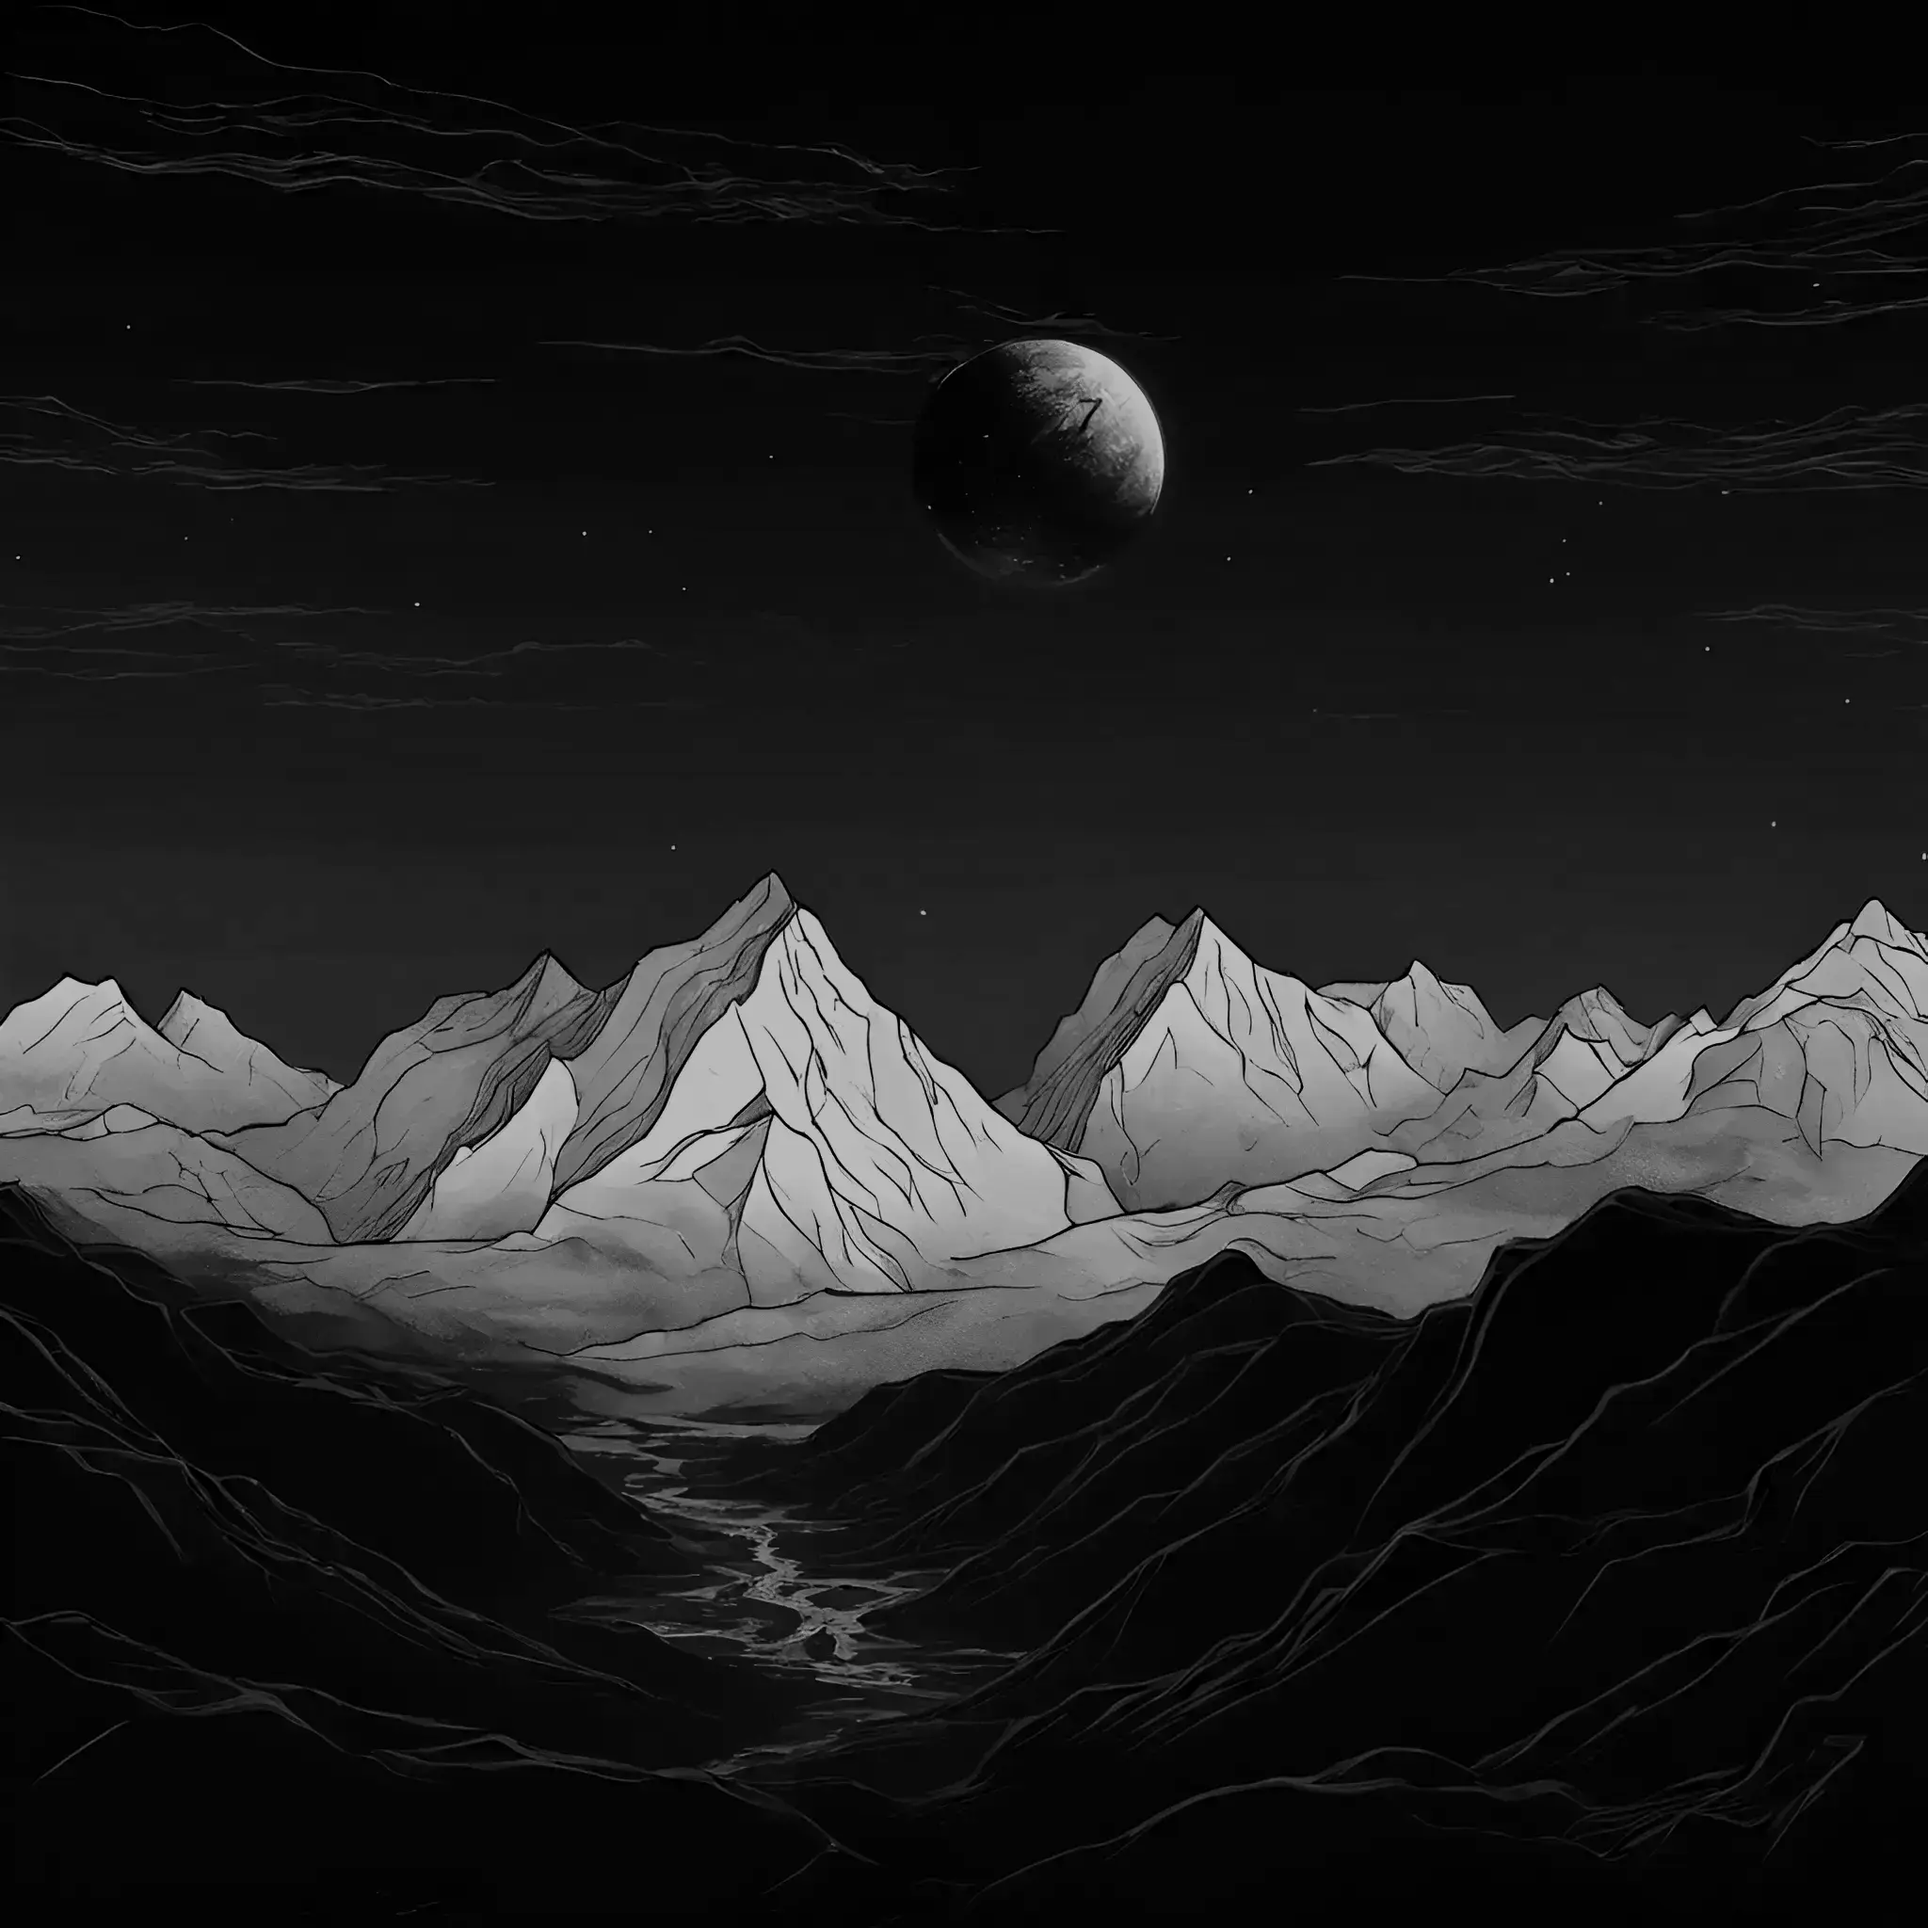
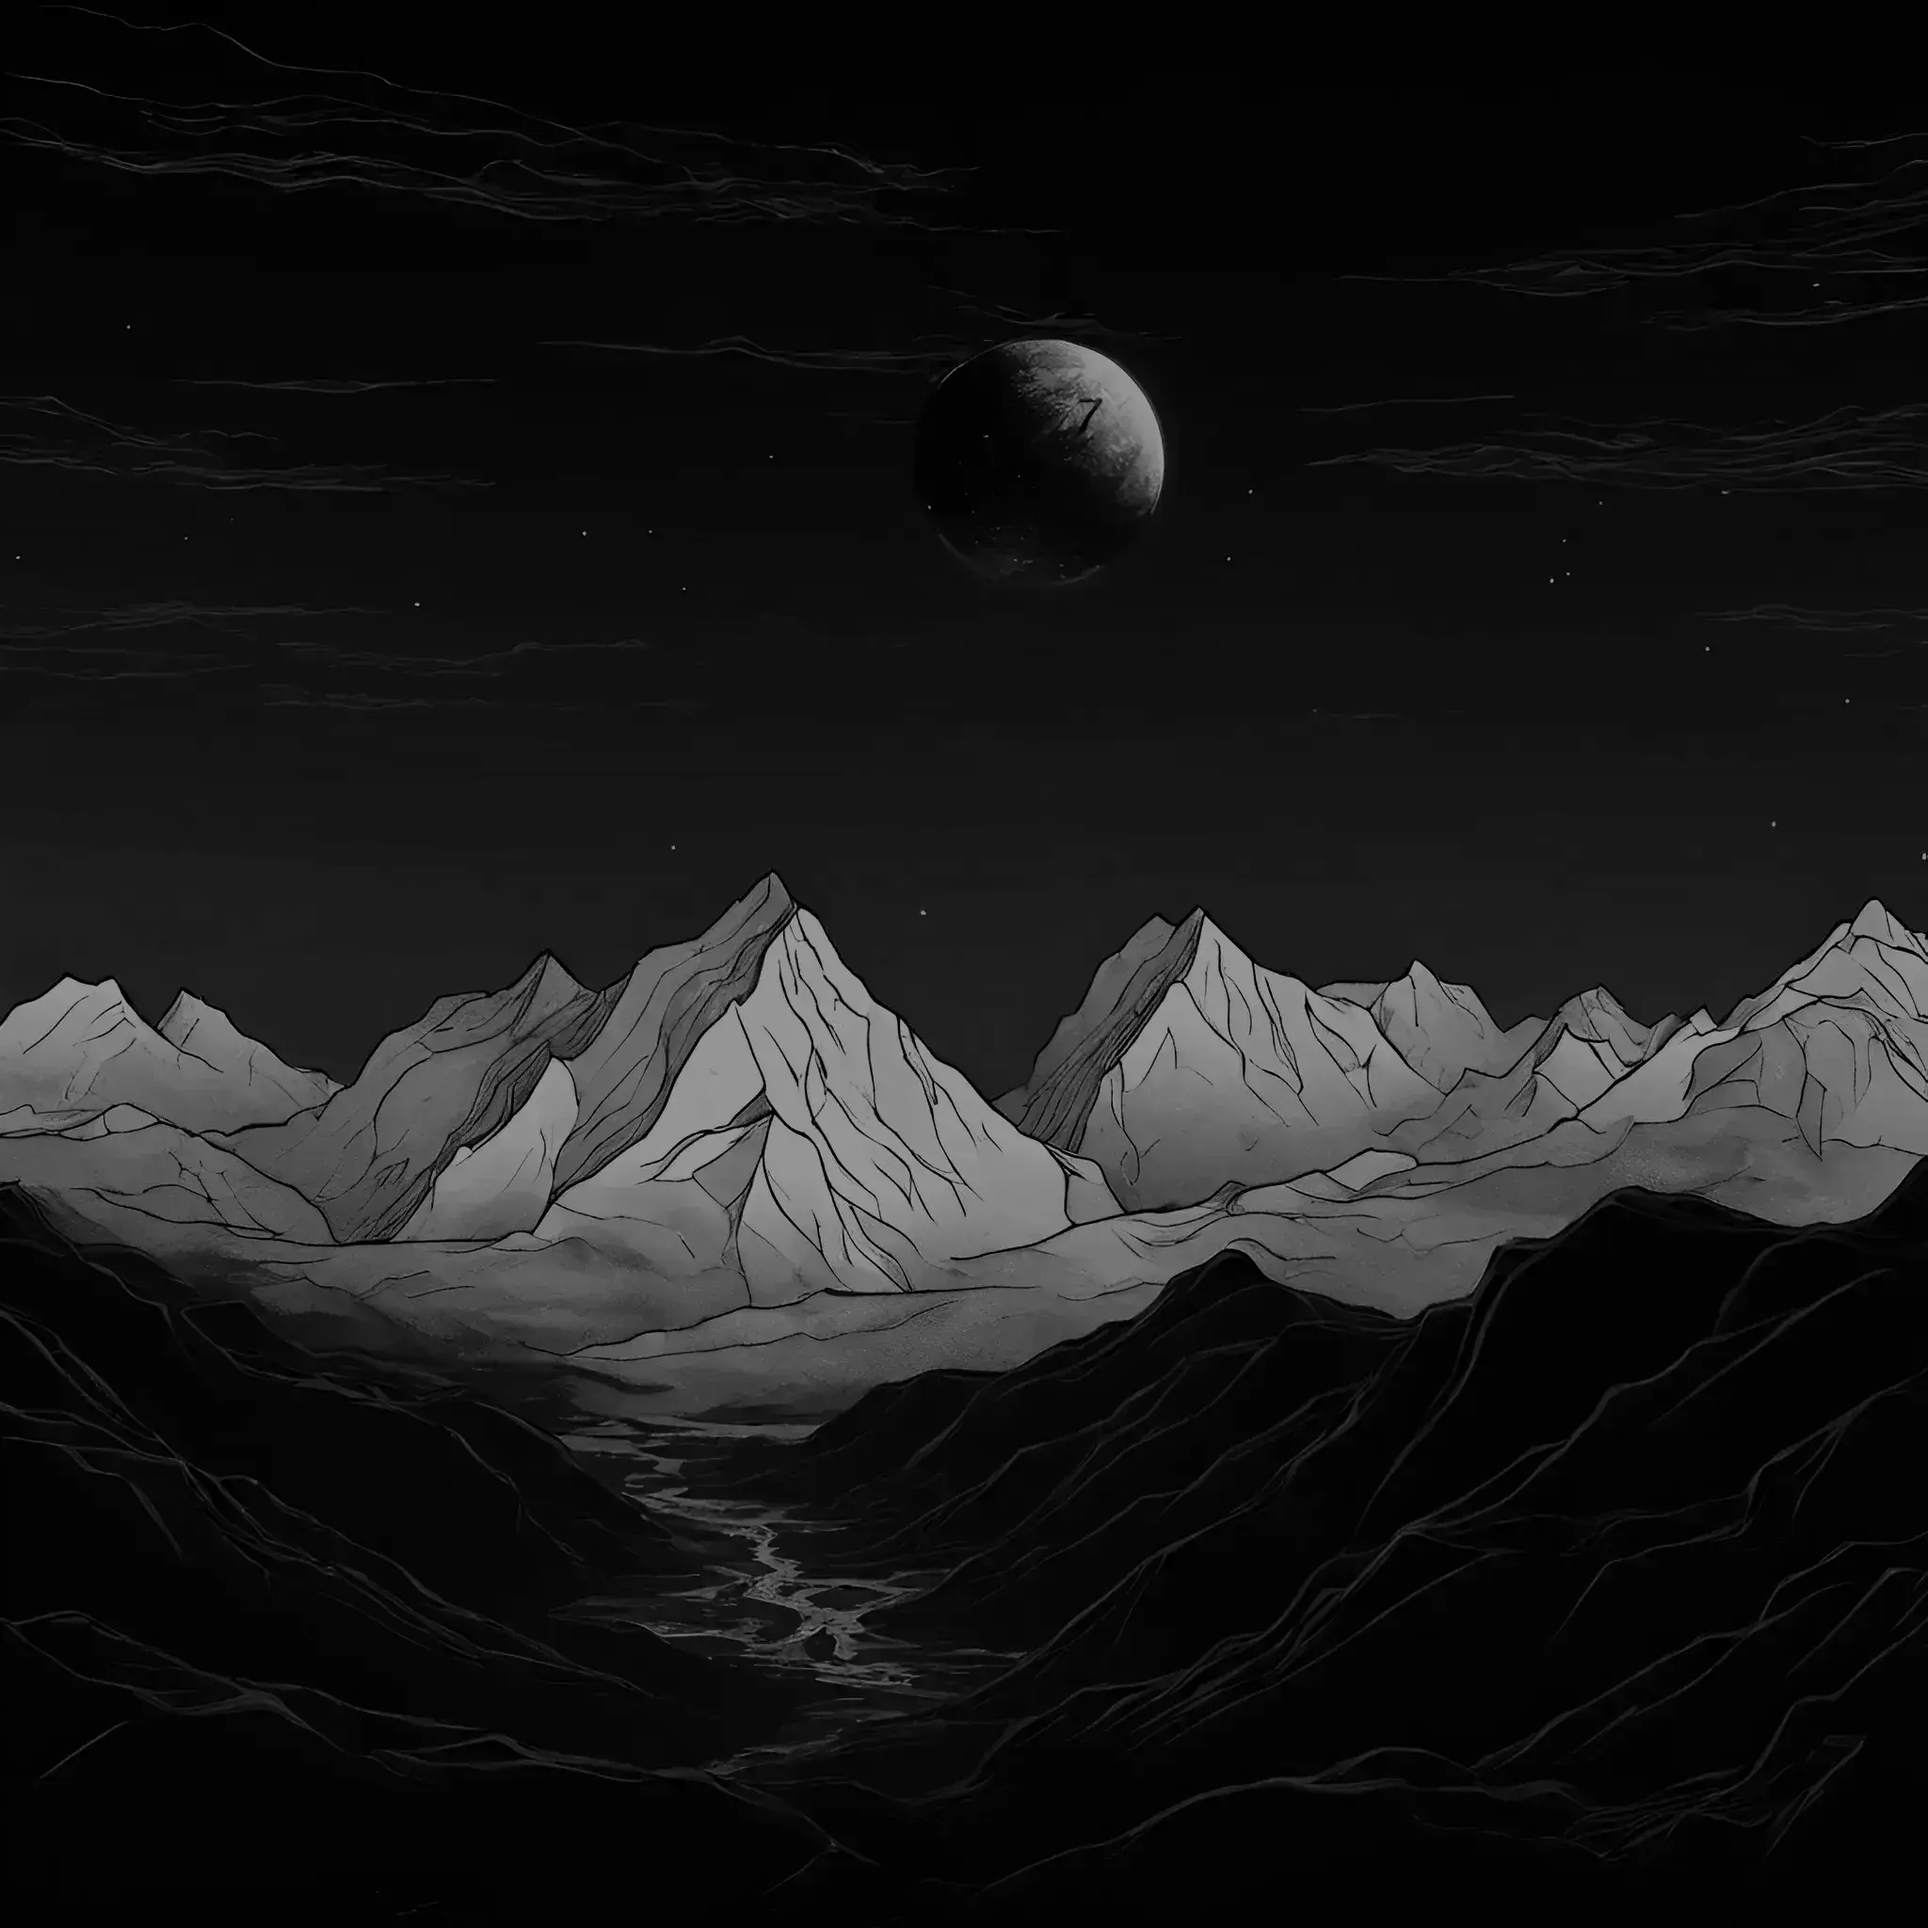
small fixes

Changed region(s): [[0.0, 0.4688, 1.0, 0.6875], [0.5312, 0.1562, 0.625, 0.25]]

diff --git a/pages/home.vue b/pages/home.vue
@@ -69,14 +69,14 @@ const reverb = `Hey, I'm <b>ML</b>, a dedicated software developer and
 
 <style lang="scss" scoped>
 .home-hero {
-  @apply transition-all-250 px-4 max-w-screen-2xl mx-auto
+  @apply transition-all-250 px-4
     ss:(px-6) sm:(px-12) md:(px-16);
 
-  $overlay: hsla(0, 0%, 0%, 0.75);
+  $overlay: hsla(0, 0%, 0%, 0.8);
 
   background:
-    linear-gradient(to bottom, $overlay, $overlay),
-    theme('colors.ml.9') url('@img/bg-2.webp') bottom center / cover no-repeat;
+    linear-gradient(to bottom right, $overlay, $overlay),
+    theme('colors.ml.9') url('@img/bg-2.webp') center bottom / cover no-repeat;
   height: auto;
   min-height: 100vh;
   min-height: 100dvh;

diff --git a/assets/styles/_fonts.scss b/assets/styles/_fonts.scss
@@ -1,7 +1,7 @@
 @font-face {
   font-family: 'Space Grotesk';
   font-display: swap;
-  font-weight: 300 - 700;
+  font-weight: 300 700;
   font-style: normal;
   src: url('/fonts/Space-Grotesk-Var.woff2') format('woff2');
 }
@@ -9,7 +9,7 @@
 @font-face {
   font-family: 'Mono Code';
   font-display: swap;
-  font-weight: 100 - 700;
+  font-weight: 100 900;
   font-style: normal;
   src: url('/fonts/RobotoMono-VariableFont.woff2') format('woff2');
 }

diff --git a/components/Layout/Footer.vue b/components/Layout/Footer.vue
@@ -73,8 +73,7 @@ function monitor(isExternal = false, link: string) {
 
 <style lang="scss" scoped>
 .ze-footer {
-  @apply bg-ml-9/100 text-ml-3/100 z-2 border-(b-5 ml-0/25)
-    max-w-screen-2xl w-full mx-auto;
+  @apply bg-ml-9/100 text-ml-3/100 z-2 border-(b-5 ml-0/25);
 }
 
 .ze-footer-inner {

diff --git a/components/Layout/Wrapper.vue b/components/Layout/Wrapper.vue
@@ -14,6 +14,7 @@
 
 <style scoped lang="scss">
 .page-layout {
-  @apply flex flex-col justify-start min-h-(100vh 100dvh);
+  @apply flex flex-col justify-start min-h-(100vh 100dvh)
+    max-w-screen-2xl mx-auto;
 }
 </style>
